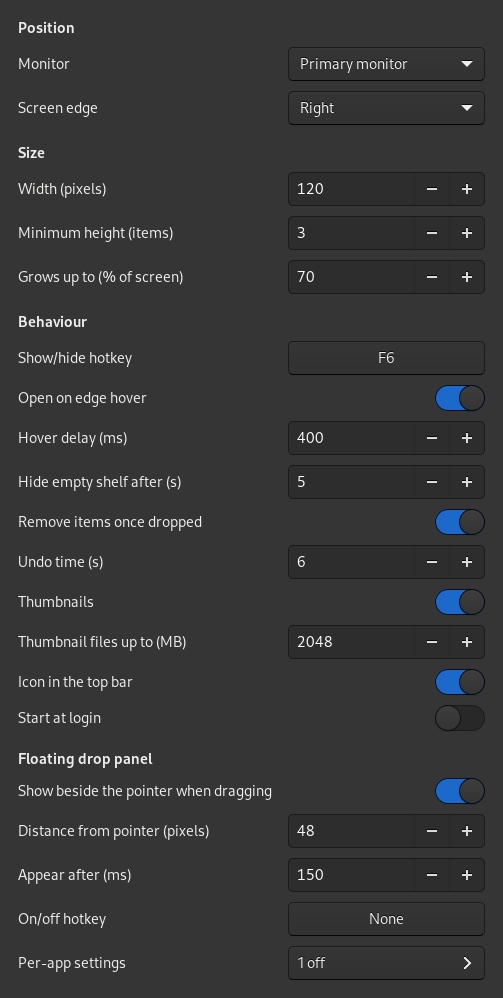
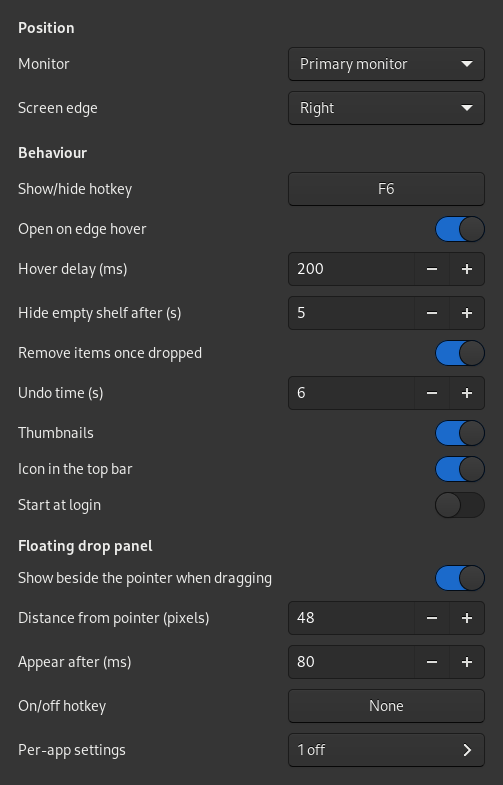
Simplify settings, new defaults, sorted dist folders
- Settings window: drop the Size section and the thumbnail limit; they stay
  in shelf.ini.
- Defaults: thumbnails up to 512 MB, hover delay 200 ms, floating panel
  after 80 ms.
- Ctrl+C and SIGTERM quit the shelf cleanly instead of with a traceback.
- AppImages build into "dist/Rocky Linux 9" and "dist/Self contained".
- The self-contained build retries flaky Ubuntu mirror downloads.

diff --git a/shelf/settings.py b/shelf/settings.py
@@ -72,14 +72,6 @@ class SettingsWindow(Gtk.Window):
         self.edge.connect("changed", self._changed)
         self._add(grid, "Screen edge", self.edge)
 
-        self._heading(grid, "Size")
-        self.width = self._spin(cfg.width, 80, 1000, 4)
-        self._add(grid, "Width (pixels)", self.width)
-        self.min_items = self._spin(cfg.min_items, 1, 20, 1)
-        self._add(grid, "Minimum height (items)", self.min_items)
-        self.max_height = self._spin(cfg.max_height_percent, 10, 100, 1)
-        self._add(grid, "Grows up to (% of screen)", self.max_height)
-
         self._heading(grid, "Behaviour")
         self._add(grid, "Show/hide hotkey", self._key_button("hotkey"))
         self.problem = Gtk.Label(xalign=0, wrap=True)
@@ -99,8 +91,6 @@ class SettingsWindow(Gtk.Window):
         self._add(grid, "Undo time (s)", self.undo)
         self.thumbnails = self._switch(cfg.thumbnails)
         self._add(grid, "Thumbnails", self.thumbnails)
-        self.thumb_max = self._spin(cfg.thumbnail_max_mb, 1, 1000000, 64)
-        self._add(grid, "Thumbnail files up to (MB)", self.thumb_max)
         self.tray = self._switch(cfg.tray_icon)
         self._add(grid, "Icon in the top bar", self.tray)
         self.login = Gtk.Switch(active=autostart.is_enabled())
@@ -286,9 +276,6 @@ class SettingsWindow(Gtk.Window):
             self.app.config,
             monitor=self.monitor.get_active_id(),
             edge=self.edge.get_active_id(),
-            width=self.width.get_value_as_int(),
-            min_items=self.min_items.get_value_as_int(),
-            max_height_percent=self.max_height.get_value_as_int(),
             open_on_hover=self.hover.get_active(),
             hover_delay_ms=self.hover_delay.get_value_as_int(),
             empty_timeout_seconds=self.timeout.get_value_as_int(),
@@ -299,7 +286,6 @@ class SettingsWindow(Gtk.Window):
             floating_delay_ms=self.float_delay.get_value_as_int(),
             floating_new_apps=self.new_apps.get_active(),
             thumbnails=self.thumbnails.get_active(),
-            thumbnail_max_mb=self.thumb_max.get_value_as_int(),
             tray_icon=self.tray.get_active(),
             **keys,
         )

diff --git a/shelf/config.py b/shelf/config.py
@@ -92,17 +92,17 @@ class Config:
     handle_width: int = 4
     inner_handle_width: int = 14
     open_on_hover: bool = True
-    hover_delay_ms: int = 400
+    hover_delay_ms: int = 200
     empty_timeout_seconds: int = 5
     remove_after_drop: bool = True
     undo_seconds: int = 6
     hotkey: str = "F6"
     thumbnails: bool = True
-    thumbnail_max_mb: int = 2048
+    thumbnail_max_mb: int = 512
     tray_icon: bool = True
     floating_enabled: bool = True
     floating_offset: int = 48
-    floating_delay_ms: int = 150
+    floating_delay_ms: int = 80
     float_hotkey: str = ""
     floating_new_apps: bool = True
     floating_apps: dict = field(default_factory=dict)  # app window class -> on/off

diff --git a/shelf/__main__.py b/shelf/__main__.py
@@ -15,9 +15,16 @@ def main(argv=None):
     gi.require_version("Gdk", "3.0")
     gi.require_version("GdkPixbuf", "2.0")
     gi.require_version("GdkX11", "3.0")
+    import signal
+
+    from gi.repository import GLib
+
     from .app import ShelfApp
 
-    return ShelfApp().run(argv if argv is not None else sys.argv)
+    app = ShelfApp()
+    for sig in (signal.SIGINT, signal.SIGTERM):  # Ctrl+C or a normal kill: quit cleanly
+        GLib.unix_signal_add(GLib.PRIORITY_DEFAULT, sig, lambda: app.quit() or False)
+    return app.run(argv if argv is not None else sys.argv)
 
 
 if __name__ == "__main__":

diff --git a/README.md b/README.md
@@ -36,7 +36,7 @@ and libXfixes.
 ./packaging/build-appimage.sh
 ```
 
-This makes `dist/Shelf-<version>-x86_64.AppImage`, a single file you can copy
+This makes `dist/Rocky Linux 9/Shelf-<version>-x86_64.AppImage`, a single file you can copy
 anywhere (e.g. `~/Applications`) and start by double-clicking or running it. It
 takes the same options as `shelf` (`--toggle`, `--settings`, ...).
 
@@ -51,7 +51,7 @@ other systems it may need `python3-gobject` (or `python3-gi` and
 ./packaging/build-full-appimage.sh
 ```
 
-This makes `dist/Shelf-full-<version>-x86_64.AppImage` (about 46 MB), which
+This makes `dist/Self contained/Shelf-full-<version>-x86_64.AppImage` (about 46 MB), which
 carries its own Python, GTK 3, tray library and C library, built on Ubuntu 20.04
 (glibc 2.31). It runs on 64-bit Intel/AMD Linux desktops from about 2018 on with
 nothing installed, and on newer ones it uses the system's C library. It still
@@ -124,7 +124,7 @@ floating drop panel, **Flush** and **Settings**.
   copy of the shelf when you log in.
 - Images, videos, PDFs and office files get thumbnails from GNOME's own
   thumbnailers, shared with Files in `~/.cache/thumbnails`. They are made one at
-  a time in the background; files over 2 GB (adjustable) keep a plain icon.
+  a time in the background; files over 512 MB keep a plain icon (`thumbnail_max_mb` in `shelf.ini`).
   There is no EXR thumbnailer on this system, so EXRs show a file icon.
 
 ## Settings
@@ -139,8 +139,10 @@ Click the gear icon on the shelf (or run `shelf --settings`). Changes apply
 straight away, including a new hotkey: click the hotkey button and press the
 combination you want.
 
-They are saved in `~/.config/shelf/shelf.ini`, which explains every option. If
-you edit that file by hand, restart the shelf. The contents of the shelf are kept in
+They are saved in `~/.config/shelf/shelf.ini`, which explains every option. A few
+are only there, not in the window: the panel's size (`width`, `min_items`,
+`max_height_percent`), the thumbnail limit and the drop strip widths. If you edit
+that file by hand, restart the shelf. The contents of the shelf are kept in
 `~/.local/share/shelf/state.json`.
 
 The monitor can be `primary`, `follow-mouse`, a connector name (`DP-2`) or
@@ -169,7 +171,7 @@ cd ~/Documents/DEV/shelf && python3 -m unittest discover -s tests -t .
 | Shelf snippet → text field / terminal | text inserted |
 | Link from browser → shelf | link item |
 | Drag shelf item and let go over nothing | item stays on the shelf |
-| Start dragging a file in Nautilus | floating panel appears beside it after ~0.15 s |
+| Start dragging a file in Nautilus | floating panel appears beside it after ~0.08 s |
 | Drop onto the floating panel | item goes on the shelf, shelf appears |
 | Let go elsewhere / press Esc | floating panel disappears |
 | Drag an item out of the shelf | no floating panel |
